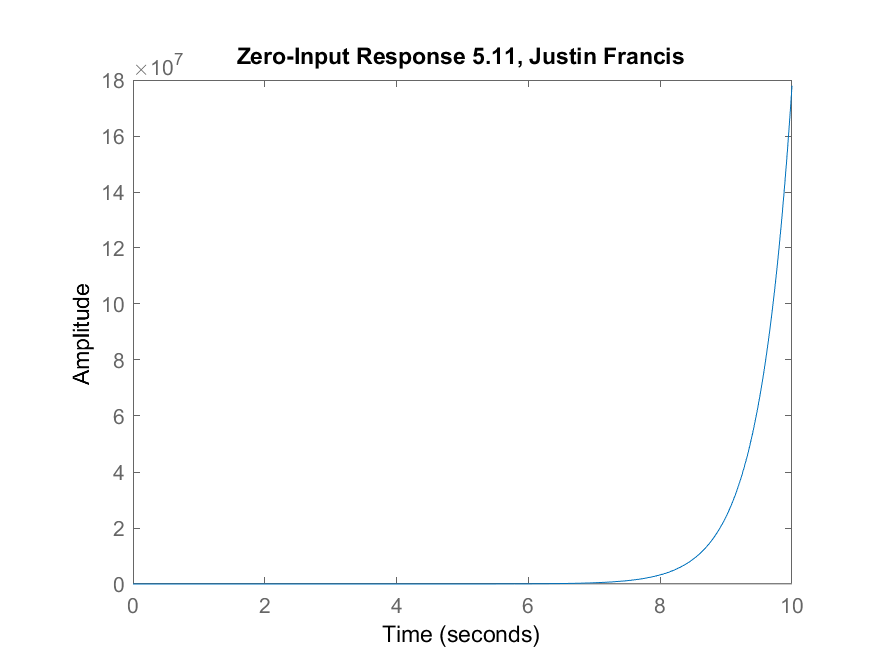
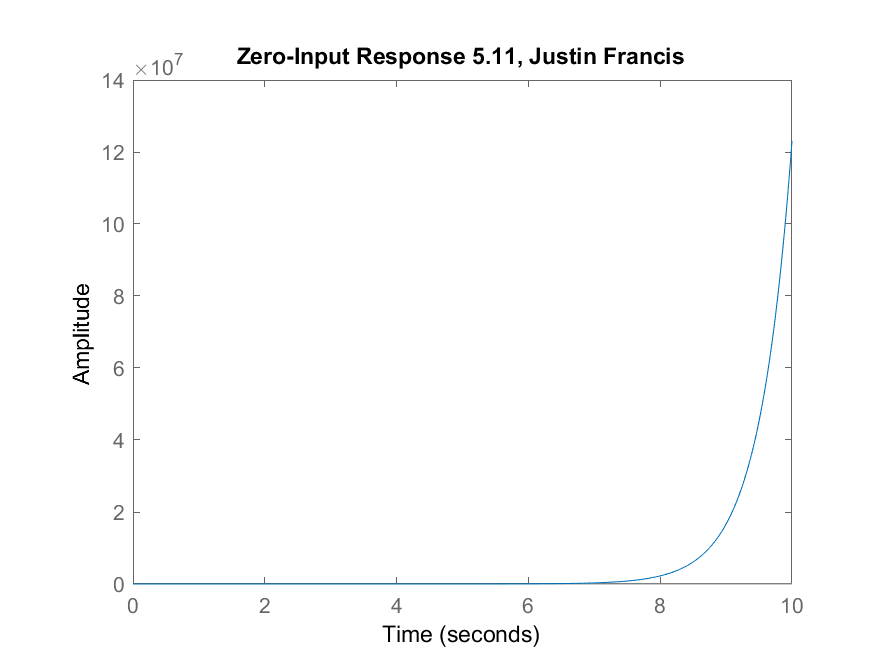
new pngs

diff --git a/HW5_plotSysResponse/HW5_plotSysResponse.m b/HW5_plotSysResponse/HW5_plotSysResponse.m
@@ -42,7 +42,12 @@ t = [0:0.01:10];
 u = zeros(size(t));
 sys = ss(A, B, C, D);
 
-lsim(sys, u, t, x0);
+figure();
+[Y, T, X] = lsim(sys, u, t, x0);
+plot(T,X);
+ylabel('Amplitude');
+xlabel('Time, [s]');
+legend({'State 1, x_1', 'State 2, x_2', 'State 3, x_3'});
 title('Zero-Input Response 5.12, Justin Francis');
 saveas(gcf, 'Prob5_12.png');
 
@@ -55,11 +60,16 @@ C = [0 0 0];
 D = 0;
 n = size(A);
 x0 = rand(n(1),1);
-t = [0:0.01:10];
+t = [0:0.01:1];
 u = zeros(size(t));
 sys = ss(A, B, C, D);
 
-lsim(sys, u, t, x0);
+figure();
+[Y, T, X] = lsim(sys, u, t, x0);
+plot(T,X);
+ylabel('Amplitude');
+xlabel('Time, [s]');
+legend({'State 1, x_1', 'State 2, x_2', 'State 3, x_3'});
 title('Zero-Input Response 5.13, Justin Francis');
 saveas(gcf, 'Prob5_13.png');
 
@@ -72,11 +82,16 @@ C = [0 0 0];
 D = 0;
 n = size(A);
 x0 = rand(n(1),1);
-t = [0:0.01:10];
+t = [0:0.01:1];
 u = zeros(size(t));
 sys = ss(A, B, C, D, 0.01);
 
-lsim(sys, u, t, x0);
+figure();
+[Y, T, X] = lsim(sys, u, t, x0);
+plot(T,X);
+ylabel('Amplitude');
+xlabel('Time, [s]');
+legend({'State 1, x_1', 'State 2, x_2', 'State 3, x_3'});
 title('Discrete Zero-Input Response 5.14, Justin Francis');
 saveas(gcf, 'Prob5_14.png');
 
@@ -89,10 +104,16 @@ C = [0 0 0];
 D = 0;
 n = size(A);
 x0 = rand(n(1),1);
-t = [0:0.01:10];
+t = [0:0.01:1];
 u = zeros(size(t));
 sys = ss(A, B, C, D, 0.01);
 
-lsim(sys, u, t, x0);
+figure();
+
+[Y, T, X] = lsim(sys, u, t, x0);
+plot(T,X);
+ylabel('Amplitude');
+xlabel('Time, [s]');
+legend({'State 1, x_1', 'State 2, x_2', 'State 3, x_3'});
 title('Discrete Zero-Input Response 5.15, Justin Francis');
 saveas(gcf, 'Prob5_15.png');
